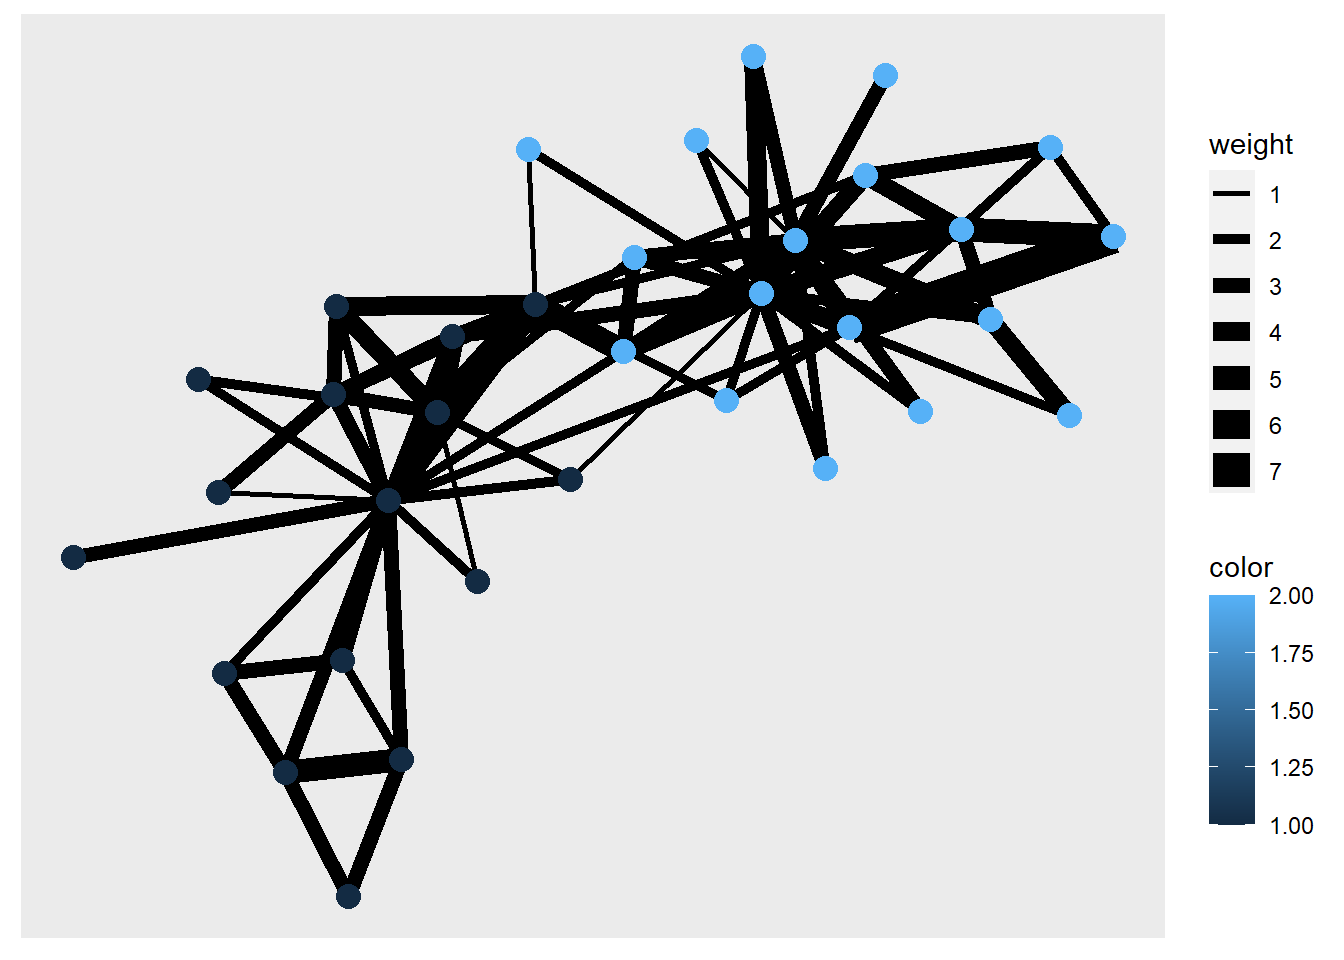
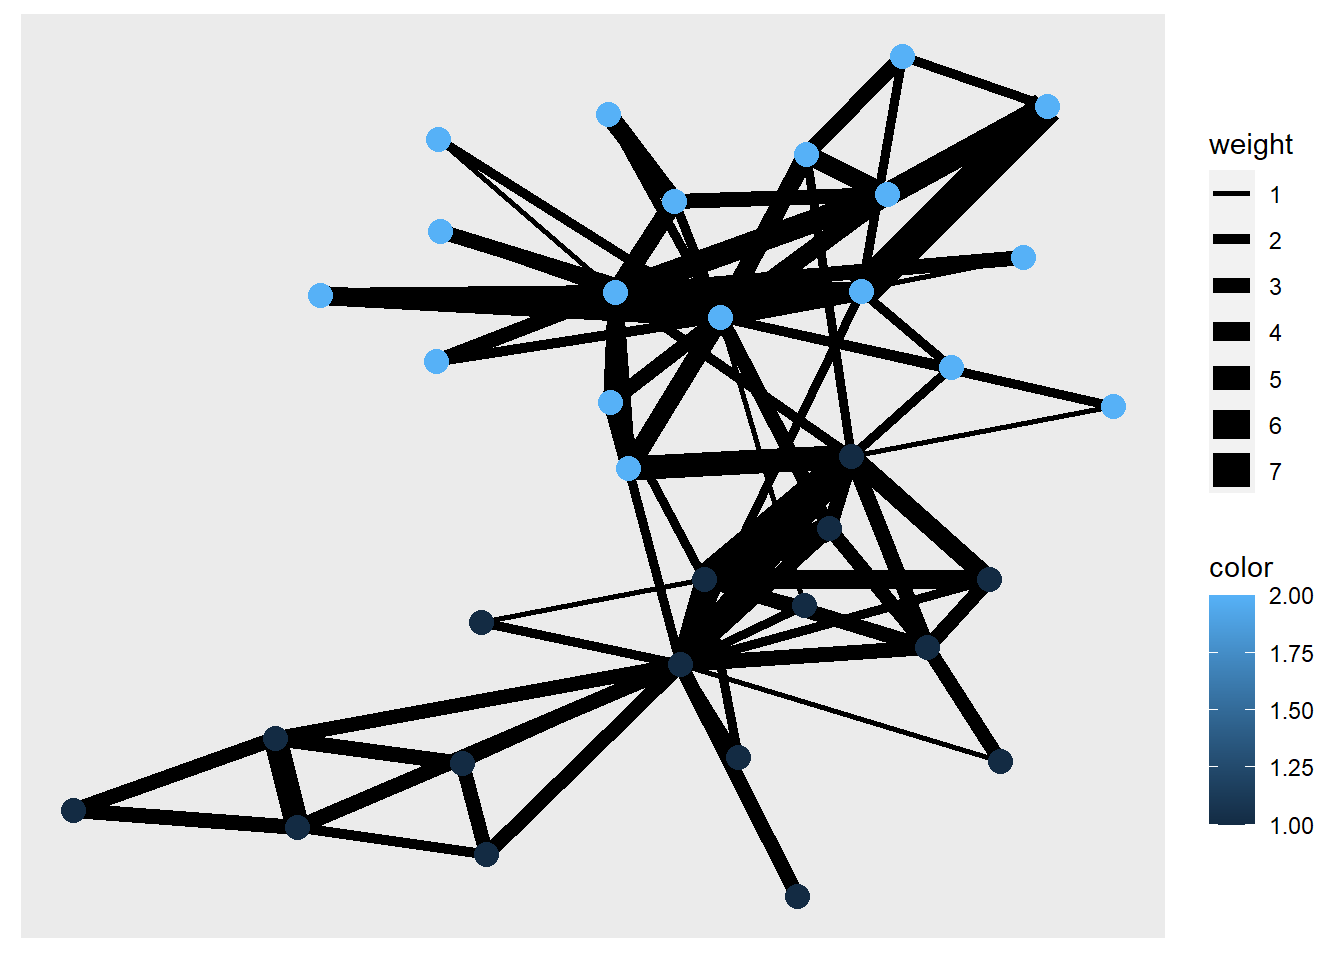
new post 2

Changed region(s): [[0.0312, 0.0312, 0.8438, 0.9688], [0.5625, 0.8438, 0.625, 0.9375], [0.3125, 0.125, 0.3438, 0.1562]]

diff --git a/content/portfolio/2021-08-15-second-year-commencement/index.html b/content/portfolio/2021-08-15-second-year-commencement/index.html
@@ -20,22 +20,4 @@ showonlyimage: false
 <h1>Intro</h1>
 <p>Awaiting the start of my second year…</p>
 <p><img src="Siamese-Cat.jpg" /></p>
-<pre class="r"><code>data(&quot;karate&quot;)
-karate</code></pre>
-<pre><code>## IGRAPH 4b458a1 UNW- 34 78 -- Zachary&#39;s karate club network
-## + attr: name (g/c), Citation (g/c), Author (g/c), Faction (v/n), name
-## | (v/c), label (v/c), color (v/n), weight (e/n)
-## + edges from 4b458a1 (vertex names):
-##  [1] Mr Hi  --Actor 2  Mr Hi  --Actor 3  Mr Hi  --Actor 4  Mr Hi  --Actor 5 
-##  [5] Mr Hi  --Actor 6  Mr Hi  --Actor 7  Mr Hi  --Actor 8  Mr Hi  --Actor 9 
-##  [9] Mr Hi  --Actor 11 Mr Hi  --Actor 12 Mr Hi  --Actor 13 Mr Hi  --Actor 14
-## [13] Mr Hi  --Actor 18 Mr Hi  --Actor 20 Mr Hi  --Actor 22 Mr Hi  --Actor 32
-## [17] Actor 2--Actor 3  Actor 2--Actor 4  Actor 2--Actor 8  Actor 2--Actor 14
-## [21] Actor 2--Actor 18 Actor 2--Actor 20 Actor 2--Actor 22 Actor 2--Actor 31
-## [25] Actor 3--Actor 4  Actor 3--Actor 8  Actor 3--Actor 9  Actor 3--Actor 10
-## + ... omitted several edges</code></pre>
-<pre class="r"><code>karate %&gt;% ggraph(., layout = &quot;graphopt&quot;) + 
-  geom_edge_link0(aes(width = weight)) + 
-  geom_node_point(aes(color = color), size = 4)</code></pre>
-<p><img src="{{< blogdown/postref >}}index_files/figure-html/unnamed-chunk-1-1.png" width="672" /></p>
 </div>
